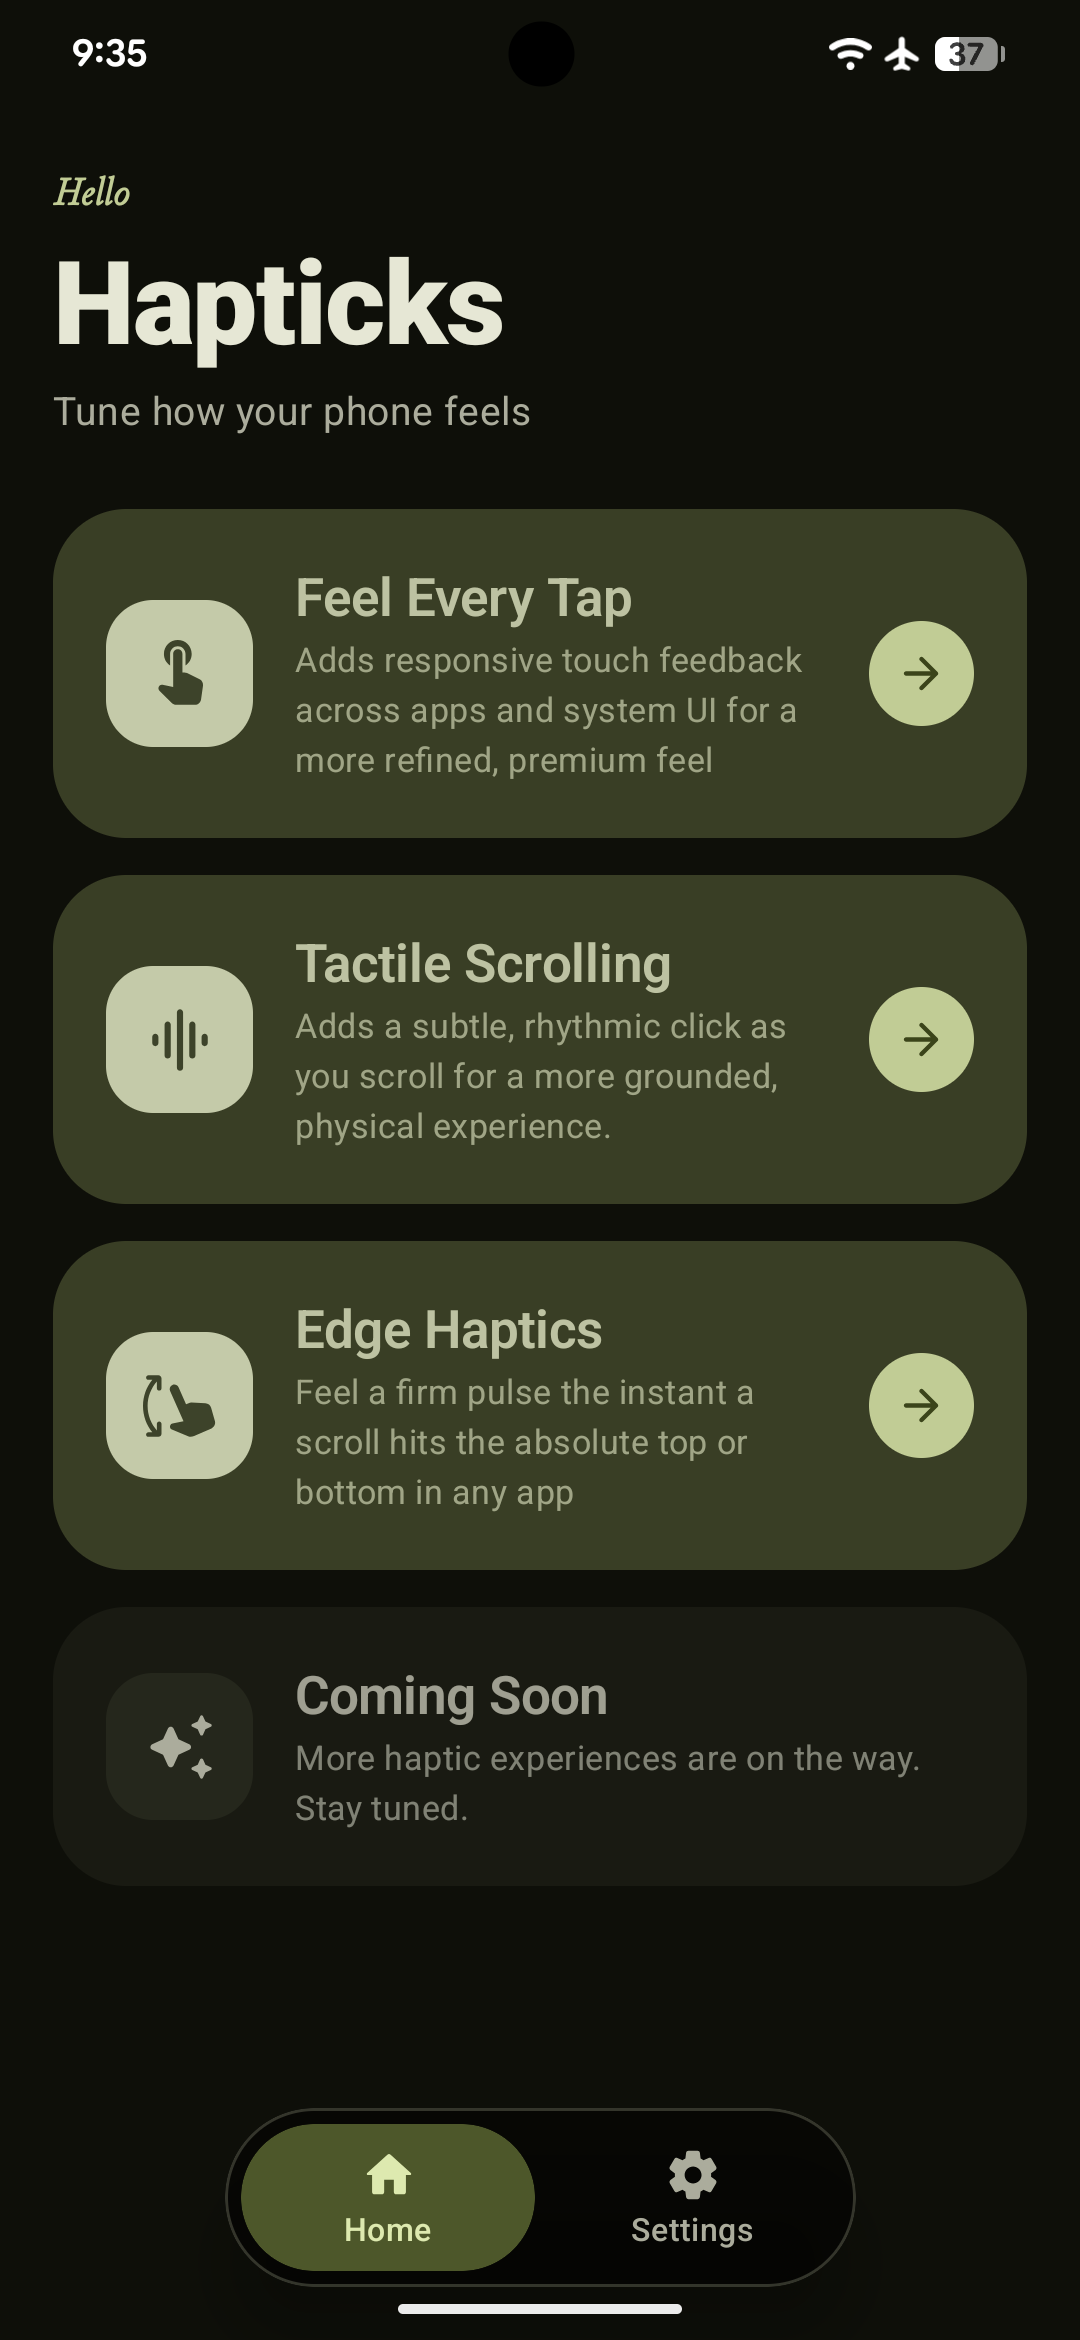
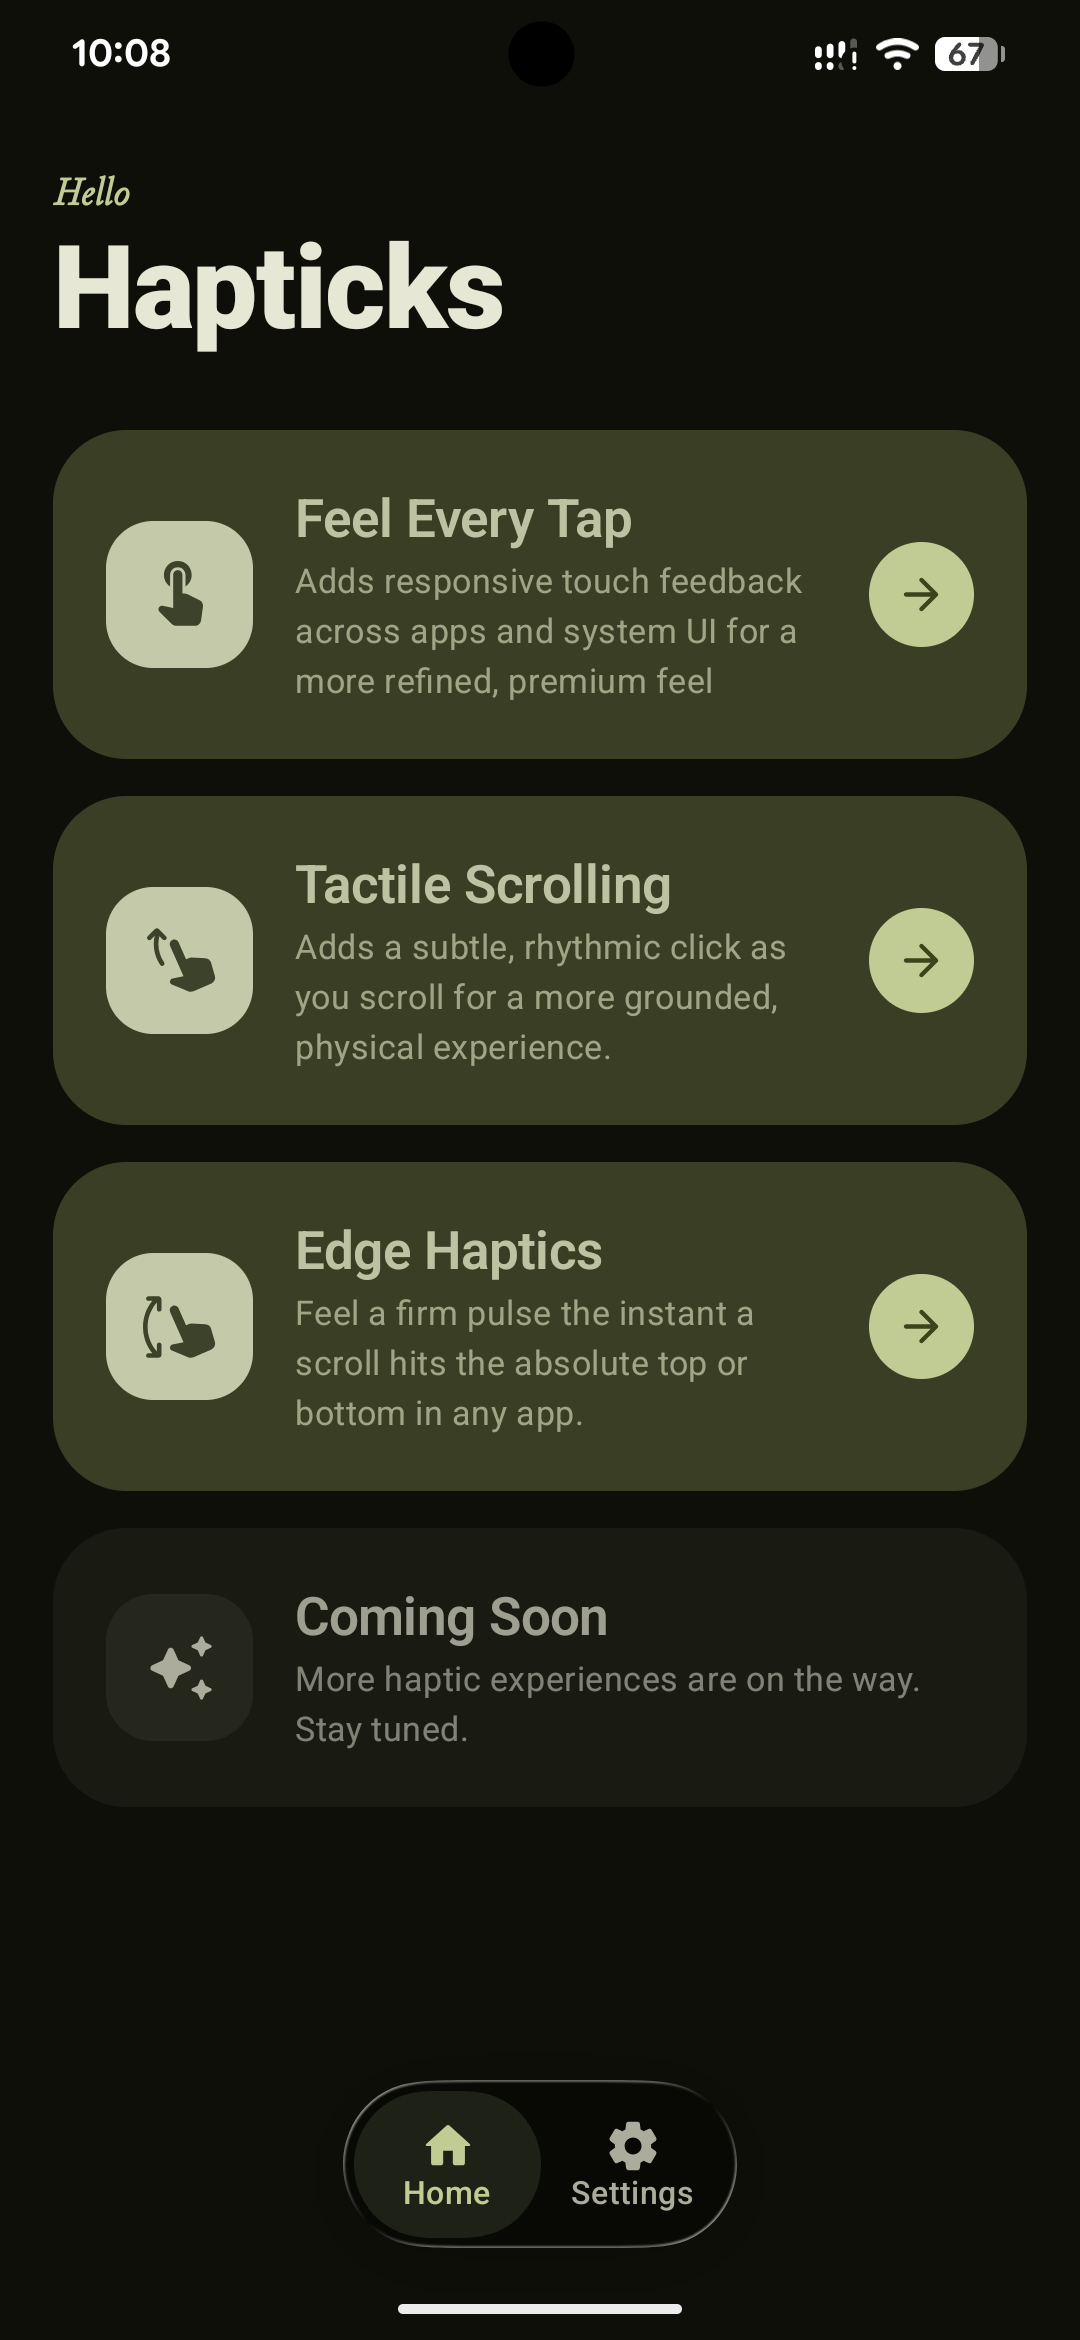
feat: configure haptics and feel of swtich haptics

diff --git a/app/src/main/kotlin/com/hapticks/app/service/accessibility/interacted/InteractableViewHaptics.kt b/app/src/main/kotlin/com/hapticks/app/service/accessibility/interacted/InteractableViewHaptics.kt
@@ -4,6 +4,7 @@ import android.view.accessibility.AccessibilityEvent
 import android.view.accessibility.AccessibilityNodeInfo
 import com.hapticks.app.data.AppSettings
 import com.hapticks.app.haptics.HapticEngine
+import com.hapticks.app.haptics.HapticPattern
 
 object InteractableViewHaptics {
 
@@ -39,8 +40,8 @@ object InteractableViewHaptics {
                 if (changeTypes and toggleContentChangeMask == 0) return true
                 if (!isSwitchLikeToggleForWindowEvent(event, changeTypes)) return true
                 engine.play(
-                    settings.pattern,
-                    settings.intensity,
+                    HapticPattern.DOUBLE_CLICK,
+                    1.0f,
                     throttleMs = TOGGLE_COALESCE_THROTTLE_MS,
                 )
                 true

diff --git a/app/src/main/kotlin/com/hapticks/app/ui/screens/tapHaptics/FeelEveryTapScreenSections.kt b/app/src/main/kotlin/com/hapticks/app/ui/screens/tapHaptics/FeelEveryTapScreenSections.kt
@@ -8,7 +8,6 @@ import androidx.compose.foundation.layout.padding
 import androidx.compose.foundation.shape.CircleShape
 import androidx.compose.material.icons.Icons
 import androidx.compose.material.icons.automirrored.rounded.ArrowBack
-import androidx.compose.material.icons.rounded.TouchApp
 import androidx.compose.material3.HorizontalDivider
 import androidx.compose.material3.Icon
 import androidx.compose.material3.IconButton

diff --git a/app/src/main/kotlin/com/hapticks/app/data/AppSettings.kt b/app/src/main/kotlin/com/hapticks/app/data/AppSettings.kt
@@ -3,6 +3,8 @@ package com.hapticks.app.data
 import androidx.compose.runtime.Immutable
 import com.hapticks.app.haptics.HapticPattern
 
+enum class ThemeMode { SYSTEM, LIGHT, DARK }
+
 @Immutable
 data class AppSettings(
     // Tap Haptics Default Settings
@@ -38,5 +40,3 @@ data class AppSettings(
         val Default: AppSettings = AppSettings()
     }
 }
-
-enum class ThemeMode { SYSTEM, LIGHT, DARK }
